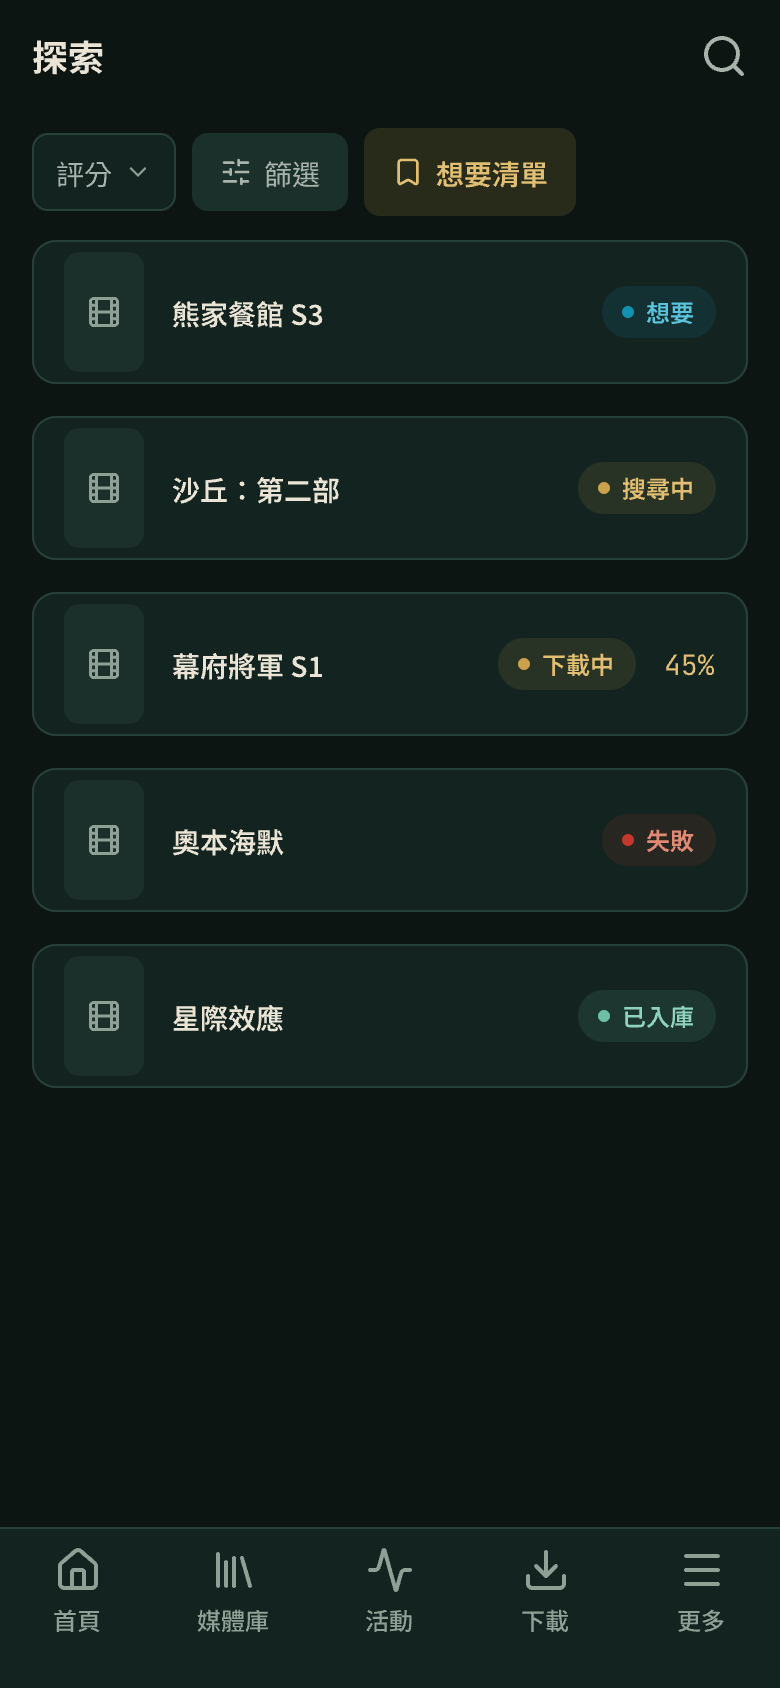
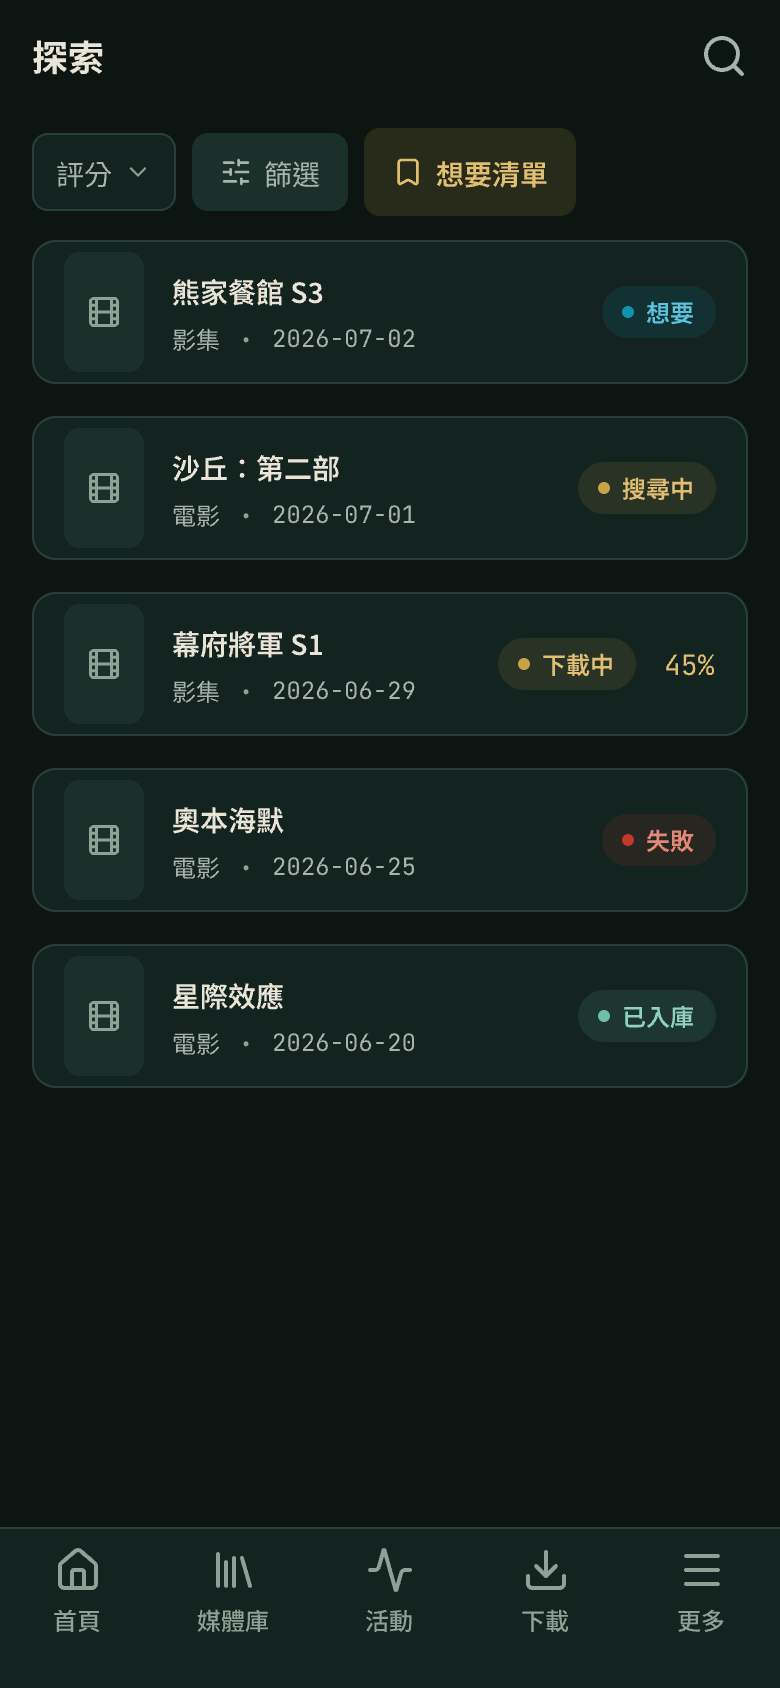
fix(dsr-11): 手機版的請求列補回「是電影還是影集、什麼時候要的」
原本會怎樣：
  手機版的請求清單每一列只有標題跟狀態。
  桌機版多一行小字寫著「影集 · 2026-07-02」——
  也就是「這是電影還是影集」跟「我什麼時候要的」，
  請求清單裡最常被問的兩件事。手機上那一行被藏起來了。

  程式碼從來沒有藏過它。是設計稿把那一行關掉了，而且沒有留下任何理由。

改成怎樣（你的裁定：手機也顯示）：
  · 設計稿那五列的那一行打開。程式碼零變更——它本來就是對的。
  · 打開之後才發現五列的內容全是模板的預設值「電影 · 2026-06-28」，
    五列有四列的類型是錯的（熊家餐館 S3 跟幕府將軍 S1 是影集不是電影），
    日期也全是同一天。一併補成跟桌機版一樣的五筆真資料。
  · 390×844 打開之後仍然放得下五列，沒有被摺線切到。

怎麼確定：
  前端 3347 全綠，lint 0 errors，設計 token 一致。
  188 張截圖重匯，只有手機那一張變動。
  打開看過：五列都有類型跟日期，而且五個日期各不相同。

Claude-Session: https://claude.ai/code/session_01GnCNNVFFayfGTouGcPymRs

diff --git a/_bmad-output/implementation-artifacts/dsr-11-flow-l-requests-v2.md b/_bmad-output/implementation-artifacts/dsr-11-flow-l-requests-v2.md
@@ -37,7 +37,7 @@ so that 「搜尋中」不會用一個意思是「你要求了但它沒發生」
 | --- | --- | --- | --- | --- |
 | 1 | `searching` 狀態色 | 赭 | 赭 | ✅ **已裁定→泥金**，兩邊都改完 |
 | 2 | 狀態點的 token 形式 | — | 3 個用飽和色、2 個用 `*-text` | ✅ **五個統一成飽和階** |
-| 3 | L4-M 的整條 meta 行（類型 · 日期） | **刻意隱藏**（`metaRow` `enabled:false`） | 不分斷點都渲染 | ⚠ **待裁定**，見下 |
+| 3 | L4-M 的整條 meta 行（類型 · 日期） | 原本隱藏 | 不分斷點都渲染 | ✅ **已裁定→手機也顯示**，改稿 |
 | 4 | ~~L4-M 的日期全是同一天~~ | — | — | ❌ **SM 誤判，已撤銷**（那些節點在手機上根本不渲染） |
 | 5 | ~~L4-M 失敗列沒有錯誤訊息行~~ | — | — | ❌ **SM 誤判，已撤銷**（同上，meta 行整條隱藏） |
 | 6 | L1-D 的計數 | `5` | `5 筆` | **稿→碼** |
@@ -68,7 +68,7 @@ so that 「搜尋中」不會用一個意思是「你要求了但它沒發生」
 
    **支持維持赭色的一方**：13-0 的理由是「暫態處理中」自成一族，與「整理中」同族——那是一套自洽的分類，只是沒有被寫進 DESIGN.md。而且改成泥金之後 `searching` 與 `downloading` 會同色（兩者都是「正在跑」），區別只剩標籤與百分比。
 
-2b. ⏸ **L4-M 的 meta 行——本 story 不動，等裁定。** L4-M 五列的 `metaRow`（類型 · 日期）都是 `enabled:false`，手機上**整條不渲染**；`RequestRow.tsx` 沒有任何斷點條件，手機上照樣渲染。兩邊差一整行資訊。稿的選擇在 390px 上說得通（標題＋狀態藥丸＋百分比已經很擠），但沒有任何註記說明那是刻意的。
+2b. ✅ **L4-M 的 meta 行打開——⚖ Alexyu 2026-09-11 裁定「手機也顯示」，已執行（只改稿）。** L4-M 五列的 `metaRow`（類型 · 日期）都是 `enabled:false`，手機上**整條不渲染**；`RequestRow.tsx` 沒有任何斷點條件，手機上照樣渲染。兩邊差一整行資訊。稿的選擇在 390px 上說得通，但沒有任何註記說明那是刻意的，而且藏起來的那一行正是「這是電影還是影集、什麼時候要的」——請求清單裡最常被問的兩件事。裁定為**手機也顯示**：程式碼本來就對，只改設計稿。五列的 `metaRow` 從 `enabled:false` 打開，並補上與 L1-D 相同的類型與日期（原本只有母版預設值「電影 · 2026-06-28」，五列有四列是錯的）。打開後 390×844 仍然放得下五列，溢出 0。
 
 3. ✅ **狀態點統一用飽和階，已執行。** `DOT_BG` 目前 `pending`/`searching`/`completed` 用 `--info`/`--warning`/`--success`（飽和），但 `downloading` 用 `--accent-text`、`failed` 用 `--error-text`（文字階）。依 DESIGN.md §兩種金規則「`--accent-primary` 給人按，`--accent-text` 給人讀」，一個實心圓點是填色不是文字。改成 `downloading: --accent-primary`、`failed: --error`。
 
@@ -111,10 +111,12 @@ so that 「搜尋中」不會用一個意思是「你要求了但它沒發生」
   - [x] `.pen` DL-v2 §8：註解重寫＋五組色票更新（順手修掉 downloading／failed 的圓點用文字階、completed 的標籤用飽和色）
   - [x] L1-D 五列、L4-M 五列的藥丸同步；全畫布掃過，沒有任何 `LkjRd` instance 還帶 warning
 
-- [ ] **Task 3 — L4-M 的 meta 行（AC: #2b）** ⏸ **BLOCKED，等 Alexyu 裁定**
+- [x] **Task 3 — L4-M 的 meta 行（AC: #2b）** ⚖ **Alexyu 裁定「手機也顯示」**
   - [x] ~~對齊假資料~~ — SM 誤判，已撤銷（見 AC #4）
-  - [ ] 裁定「手機不顯示」→ `RequestRow.tsx` 加斷點條件，並在 L4-M 加一則註記說明那是刻意的
-  - [ ] 裁定「手機也顯示」→ L4-M 五列的 `metaRow` 改回 `enabled:true`
+  - [x] 五列的 `metaRow` 從 `enabled:false` 打開
+  - [x] 補上與 L1-D 相同的類型與日期（打開後才發現五列都吃母版預設值「電影 · 2026-06-28」，四列類型是錯的）
+  - [x] **程式碼零變更**——`RequestRow.tsx` 本來就不分斷點渲染，這次是稿去對碼
+  - [x] 打開後 390×844 仍放得下五列，L4-M 溢出 0
 
 - [x] **Task 4 — 兩行說明補進程式碼（AC: #6, #7）**
   - [x] 先改 `RequestsView.spec.tsx` 的斷言讓它變紅（2 紅）
@@ -265,4 +267,5 @@ Claude Opus 5 (1M context) — `claude-opus-5[1m]`，BMAD dev agent（Amelia）2
 | 2026-09-11 | Task 6 — Flow L 群組加 `L Flow Note` 標明三處超前實作的稿不得刪；順手修掉 L4-M 底部分頁列的垂直裁切，Flow L 溢出 5 → 0。 |
 | 2026-09-11 | Task 7 — 閘門：web 3346/3346、api PASS、lint 0 errors、typecheck PASS、token 一致、prettier 通過。 |
 | 2026-09-11 | ⚖ **Alexyu 裁定「改成金色」** → Task 2／3 解除阻塞並執行：`searching` 與同族的「整理中」從赭改泥金，`DOT_BG` 五個統一成飽和階，`.pen` DL-v2 §8 的註解與色票重寫，L1-D／L4-M 十列藥丸同步，`HeroBanner.spec.tsx` 斷言跟上。先紅 2 後綠 3347。 |
+| 2026-09-11 | ⚖ **Alexyu 裁定「手機也顯示」** → Task 3 解除阻塞：L4-M 五列的 meta 行打開並補上正確的類型與日期，程式碼零變更。 |
 | 2026-09-11 | 順手修掉裁定時撞見的三處同類問題：DL-v2 §8 的 downloading／failed 圓點用的是「給人讀」的文字階、completed 的標籤用飽和色當字（§Badges 明寫底用 tint、字用 `*-text`）。 |
